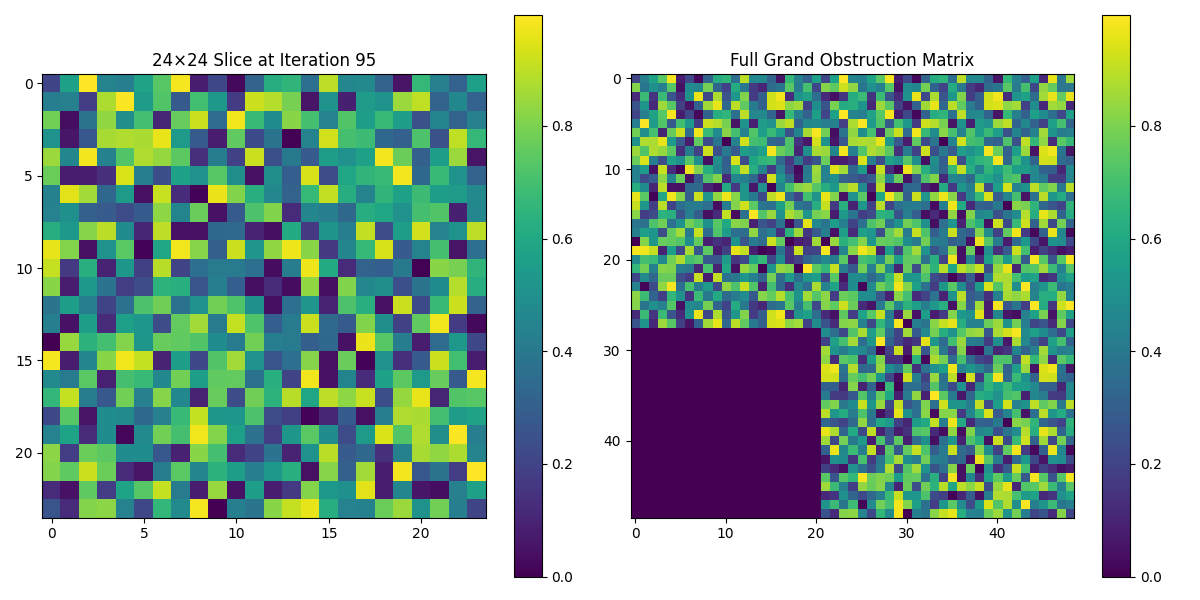
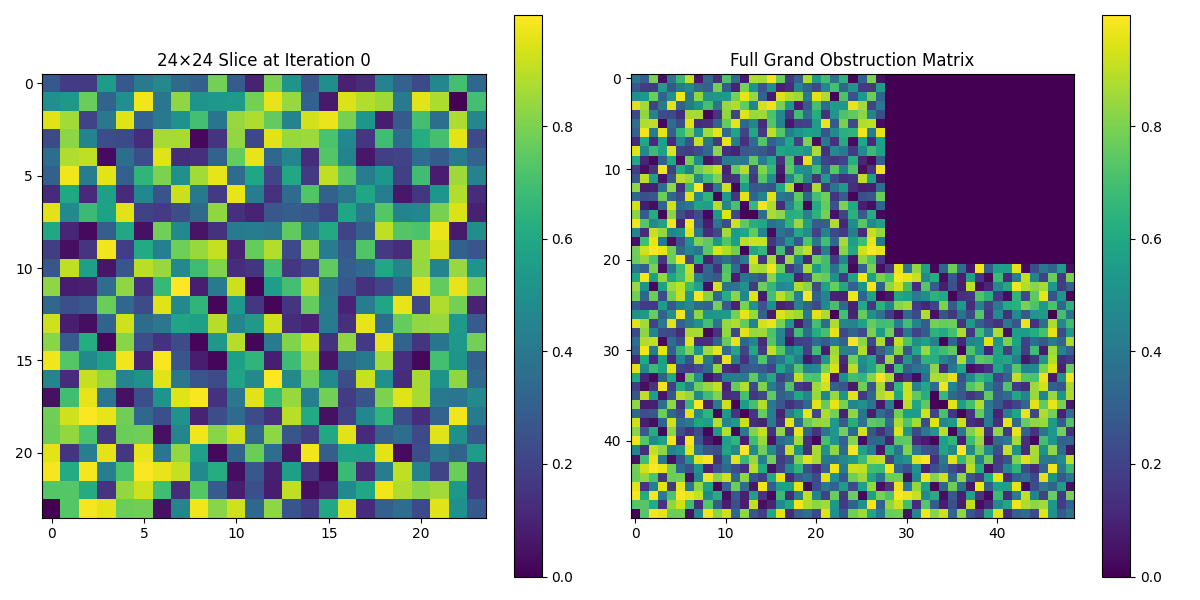
Attempt to add obstruction repitition functionality.

diff --git a/obstruction_and_relic_matrix.py b/obstruction_and_relic_matrix.py
@@ -56,39 +56,30 @@ class GrandObstructionMatrix(SymmetricMatrix):
     anti_iteration_i, anti_iteration_j = self.get_entangled_iteration_index(iteration_i, iteration_j)
     entangled_tile_indices = self.get_entangled_tiles_iteration_index(iteration_i, iteration_j)
 
-    #print(f"Updating ({iteration_i}, {iteration_j}) → Entangled Tiles: {entangled_tile_indices}")
-    #print(f"Writing value at: ({iteration_i}, {iteration_j}) and Entangled: {entangled_tile_indices}")
+    print(f"Updating ({iteration_i}, {iteration_j}) → Entangled Tiles: {entangled_tile_indices}")
+    print(f"Writing value at: ({iteration_i}, {iteration_j}) and Entangled: {entangled_tile_indices}")
     
     def clamp_index(index):
         return max(0, min(self.size - 1, index))
     
     if obstruction_direction == 1:
-        # For NE: start near the top for rows and near the right for columns.
-        self.data[clamp_index(obstruction_movement_step + iteration_i),
-                  clamp_index(self.size - 24 - obstruction_movement_step + iteration_j)] = value
-        self.data[clamp_index(obstruction_movement_step + anti_iteration_i),
-                  clamp_index(self.size - 24 - obstruction_movement_step + anti_iteration_j)] = value
+      self.data[clamp_index((self.size - 24 - obstruction_movement_step + iteration_i)), clamp_index((obstruction_movement_step + iteration_j))] = value
+      self.data[clamp_index((self.size - 24 - obstruction_movement_step + anti_iteration_i)), clamp_index((obstruction_movement_step + anti_iteration_j))] = value
+        
+      for tile_i, tile_j in entangled_tile_indices:
+        tile_anti_i, tile_anti_j = self.get_entangled_iteration_index(tile_i, tile_j)
+        self.data[clamp_index((self.size - 24 - obstruction_movement_step + tile_i)), clamp_index((obstruction_movement_step + tile_j))] = value
+        self.data[clamp_index((self.size - 24 - obstruction_movement_step + tile_anti_i)), clamp_index((obstruction_movement_step + tile_anti_j))] = value
 
-        for tile_i, tile_j in entangled_tile_indices:
-            tile_anti_i, tile_anti_j = self.get_entangled_iteration_index(tile_i, tile_j)
-            self.data[clamp_index(obstruction_movement_step + tile_i),
-                      clamp_index(self.size - 24 - obstruction_movement_step + tile_j)] = value
-            self.data[clamp_index(obstruction_movement_step + tile_anti_i),
-                      clamp_index(self.size - 24 - obstruction_movement_step + tile_anti_j)] = value
     else:
-        # For SW: start near the bottom for rows and near the left for columns.
-        self.data[clamp_index(self.size - 24 - obstruction_movement_step + iteration_i),
-                  clamp_index(obstruction_movement_step + iteration_j)] = value
-        self.data[clamp_index(self.size - 24 - obstruction_movement_step + anti_iteration_i),
-                  clamp_index(obstruction_movement_step + anti_iteration_j)] = value
+      self.data[clamp_index((obstruction_movement_step + iteration_i)), clamp_index((self.size - 24 - obstruction_movement_step + iteration_j))] = value
+      self.data[clamp_index((obstruction_movement_step + anti_iteration_i)), clamp_index((self.size - 24 - obstruction_movement_step + anti_iteration_j))] = value
+        
+      for tile_i, tile_j in entangled_tile_indices:
+        tile_anti_i, tile_anti_j = self.get_entangled_iteration_index(tile_i, tile_j)
+        self.data[clamp_index((obstruction_movement_step + tile_i)), clamp_index((self.size - 24 - obstruction_movement_step + tile_j))] = value
+        self.data[clamp_index((obstruction_movement_step + tile_anti_i)), clamp_index((self.size - 24 - obstruction_movement_step + tile_anti_j))] = value
 
-        for tile_i, tile_j in entangled_tile_indices:
-            tile_anti_i, tile_anti_j = self.get_entangled_iteration_index(tile_i, tile_j)
-            self.data[clamp_index(self.size - 24 - obstruction_movement_step + tile_i),
-                      clamp_index(obstruction_movement_step + tile_j)] = value
-            self.data[clamp_index(self.size - 24 - obstruction_movement_step + tile_anti_i),
-                      clamp_index(obstruction_movement_step + tile_anti_j)] = value
-            
   def get_index_value(self, index):
       """
       Retrieves the value at a given index.
@@ -99,21 +90,20 @@ class GrandObstructionMatrix(SymmetricMatrix):
 
       return self.data[i, j]
   
-  def get_obstruction_matrix_iteration(self, map_iteration_period, time_iteration):
-      total_size = self.size
-      obstruction_movement_step = time_iteration // map_iteration_period
-      if obstruction_direction == 1:
-        # For NE: extract rows from obstruction_movement_step to (24+step)
-        # and columns from (total_size-24-step) to (total_size-step)
-        obstruction_matrix_iteration = self.data[obstruction_movement_step:(24 + obstruction_movement_step),
-                                                  (total_size - 24 - obstruction_movement_step):(total_size - obstruction_movement_step)]
-      else:
-        # For SW: extract rows from (total_size-24-step) to (total_size-step)
-        # and columns from obstruction_movement_step to (24+step)
-        obstruction_matrix_iteration = self.data[(total_size - 24 - obstruction_movement_step):(total_size - obstruction_movement_step),
-                                                  obstruction_movement_step:(24 + obstruction_movement_step)]
-      return obstruction_matrix_iteration
-  
+  def get_obstruction_matrix_iteration (self, map_iteration_period, time_iteration):
+    total_size = self.size
+    
+    obstruction_movement_step = time_iteration // map_iteration_period # make sure // is correct here (for the game)
+    
+    if obstruction_direction == 1:
+      obstruction_matrix_iteration = self.data[(total_size - 24 - obstruction_movement_step) : (total_size - obstruction_movement_step),
+                                                              (obstruction_movement_step) : (24 + obstruction_movement_step)]
+    else:
+      obstruction_matrix_iteration = self.data[(obstruction_movement_step) : (24 + obstruction_movement_step),
+                                                              (total_size - 24 - obstruction_movement_step) : (total_size - obstruction_movement_step)]
+      
+    return obstruction_matrix_iteration
+
 # Trial simulation
 
 # Initialize grand obstruction matrix
@@ -127,7 +117,7 @@ for time_iteration in range(0, 100, 5):  # Simulating 20 steps
             grand_obstruction_matrix.set_index_value(map_iteration_period, time_iteration, (i, j), value)
 
 # Extract the 24×24 slice of the obstruction matrix at iteration 95
-obstruction_matrix = grand_obstruction_matrix.get_obstruction_matrix_iteration(20, 95)
+obstruction_matrix = grand_obstruction_matrix.get_obstruction_matrix_iteration(20, 0)
 
 # Extract the full grand obstruction matrix
 full_matrix = grand_obstruction_matrix.data  # The entire matrix
@@ -140,7 +130,7 @@ vmin, vmax = np.min(full_matrix), np.max(full_matrix)
 
 # Plot the 24x24 slice
 im1 = axes[0].imshow(obstruction_matrix, cmap="viridis", interpolation="nearest", vmin=vmin, vmax=vmax)
-axes[0].set_title("24×24 Slice at Iteration 95")
+axes[0].set_title("24×24 Slice at Iteration 0")
 fig.colorbar(im1, ax=axes[0])
 
 # Plot the full grand obstruction matrix
